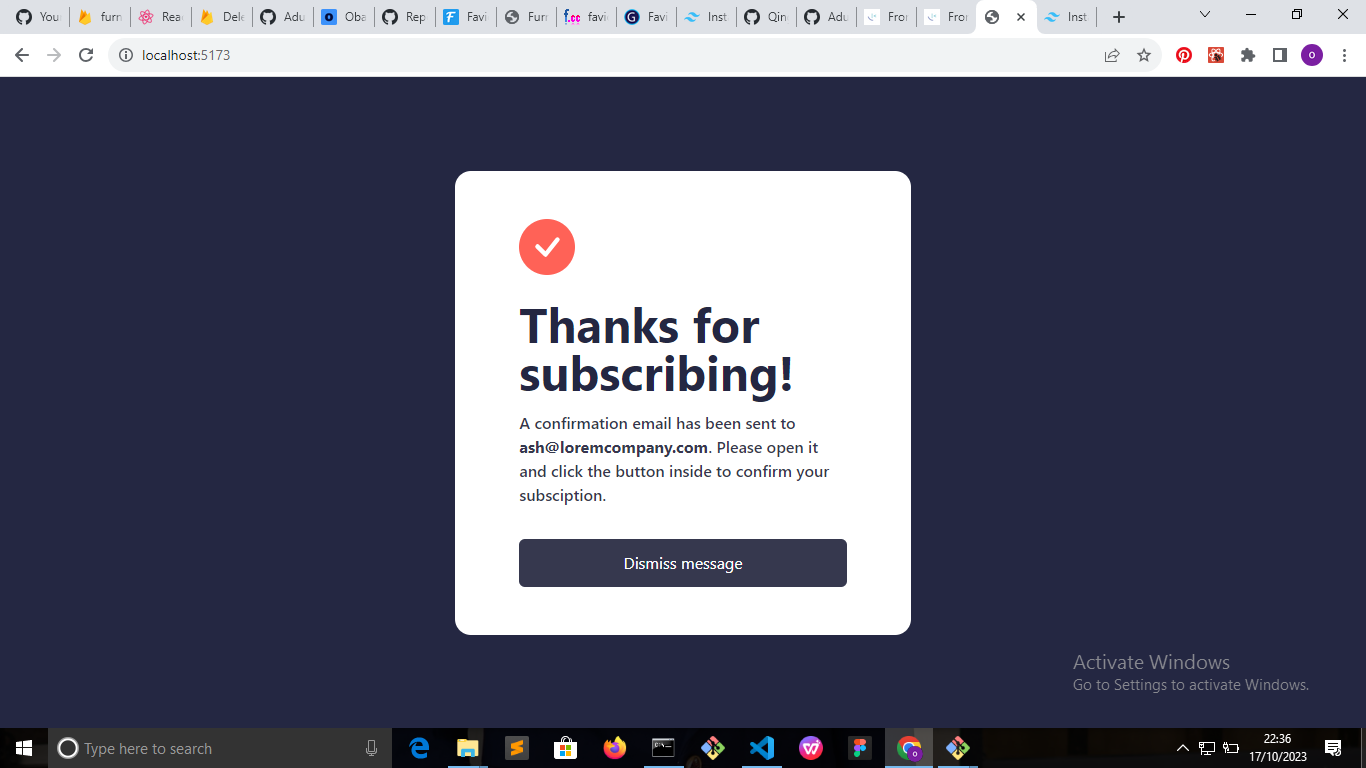
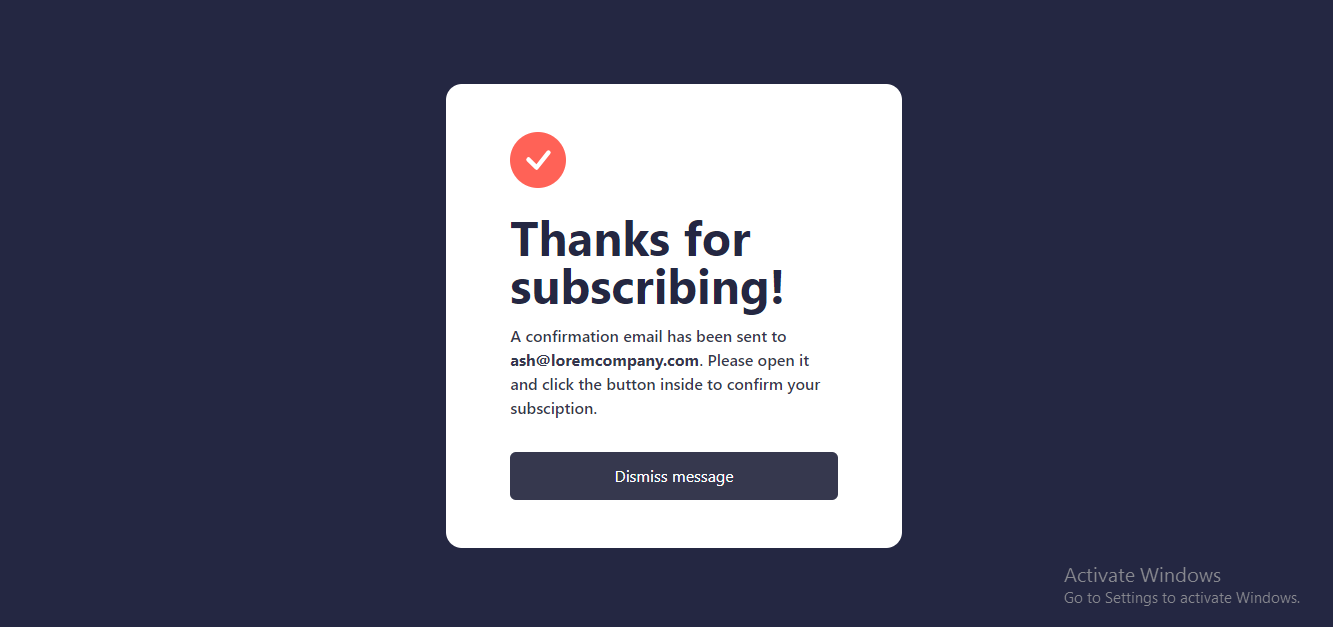
cropped screenshots

Changed region(s): [[0.0, 0.0, 1.0, 0.8788], [0.2768, 0.8485, 1.0, 1.0], [0.0, 0.9394, 0.1538, 1.0]]

diff --git a/tailwind.config.js b/tailwind.config.js
@@ -1,3 +1,7 @@
+import { createRequire } from 'module';
+
+const require = createRequire(import.meta.url);
+
 /** @type {import('tailwindcss').Config} */
 export default {
   content: [
@@ -15,5 +19,5 @@ export default {
     },
   },
   plugins: [],
-}
+};
 